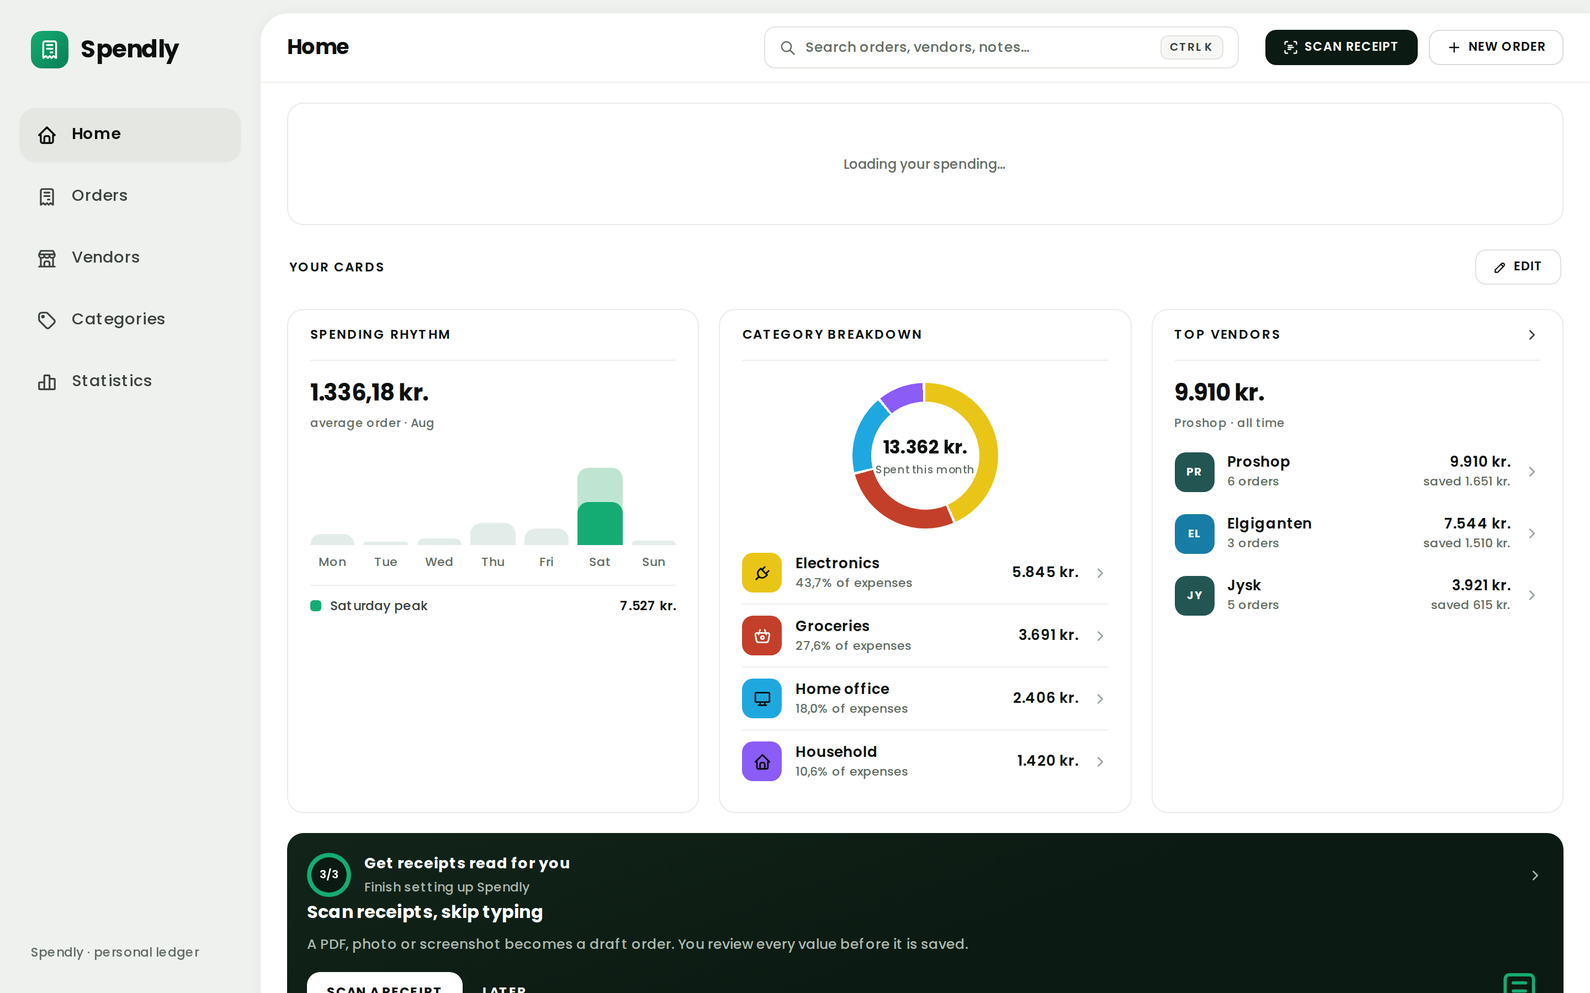
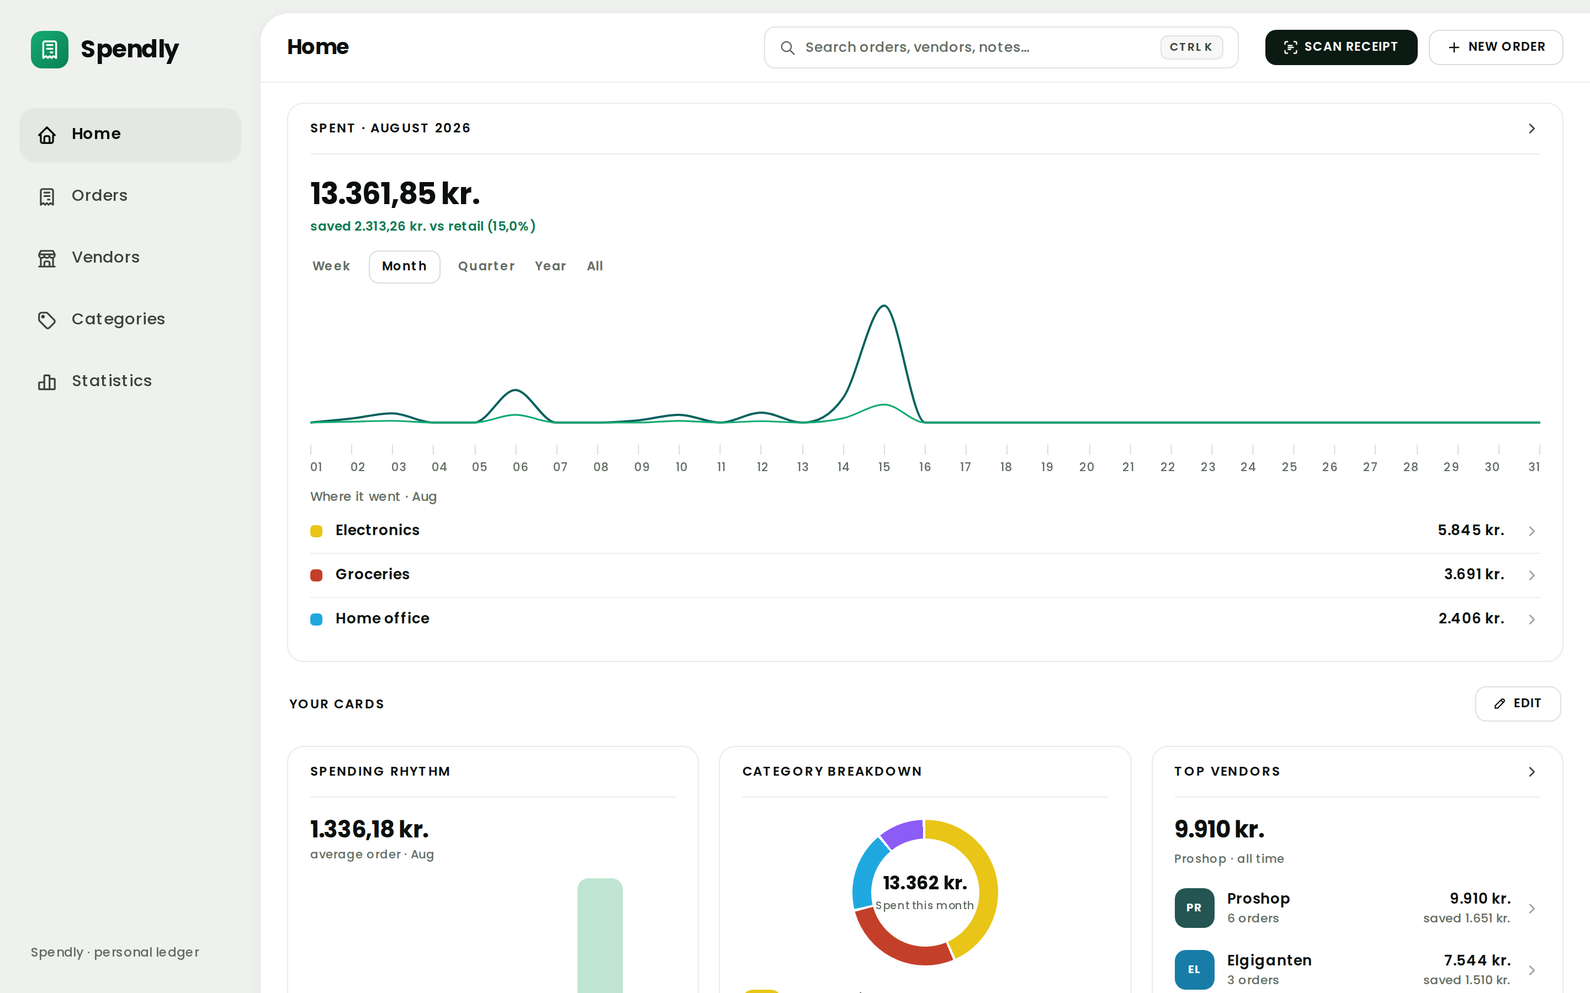
Fill Home's cards to the row they share, and fix the shot harness
Spending rhythm, Category breakdown and Top vendors share a grid row, so all
three are as tall as the tallest -- and two of them held about 300px and 403px
of nothing. Top vendors was cut to three by a slice nothing else agreed with;
the rhythm bars could not fill at all, because the API returned pixel heights
(70px at the peak, twice, as `home` and `stats`), so the chart was as tall as a
decision taken where the data is.

Both are one number and one shape now: `homeCardRows` (10) is the row count
every list on the page reads, and the bars are a share of the busiest day drawn
as a percentage of a track that grows with the card -- the shape the month
columns already use. Measured: rhythm 403px dead -> 1px, Top vendors 3 rows ->
10 at 1px, Orders card the same. The breakdown's 129px is the account's, not
the layout's: that list is every category with spend this month, because the
ring has to add up to its own centre.

The share rewrite measured perfectly and rendered upside down -- every bar
within 0px of track x share while all seven hung from the ceiling, because
align-self:stretch on an item with a definite height resolves to flex-start.
The probe now reads each bar's bottom against its track's: 0px on 28 bars.

Harness: regen-docs waited on `.card`, and the loading state IS a card, so it
screenshotted "Loading your month..." -- 79,524 bytes against a committed
344,406. The settle loop agreed, because it compares chart paths and a page
[…]

diff --git a/react/src/api/client.js b/react/src/api/client.js
@@ -352,6 +352,23 @@ export async function getHomeHero(range, signal) {
 	return request('/api/home/hero' + qs({ range }), { signal })
 }
 
+/** How many rows a card on Home fills with, where it has rows to fill.
+
+    Home's cards share grid rows, and a grid row is as tall as its tallest card -- so a card
+    that holds three of something beside a card that holds ten is not a shorter card, it is the
+    same card with a hole under it. Category breakdown is the long one (every category with
+    spend this month, which the ring in its middle has to add up to), and the two beside it were
+    cut to three and drew about 300px of nothing each.
+
+    Ten, and *filled* to ten where the account has ten. Not "all", because these are summary
+    cards with the full list one click behind them, and a card that grows without limit stops
+    sharing a row with anything. Change the number here and every list on the page follows it.
+
+    Not the category ring's list: that one is every category with spend this month by rule, since
+    the arcs have to add up to the figure printed in the centre. Capping it is a defect with its
+    own entry. */
+export const homeCardRows = 10
+
 export async function getHomeContent(signal) {
 	// Fetched directly rather than through getOrdersOverview, which independently re-fetches
 	// stats/categories/home for its own callers — going through it here paid for that work
@@ -362,7 +379,7 @@ export async function getHomeContent(signal) {
 		getVendors(signal),
 		getCategories(signal),
 		getSettings(signal),
-		request('/api/orders/overview' + qs({ count: 3 }), { signal })
+		request('/api/orders/overview' + qs({ count: homeCardRows }), { signal })
 	])
 	/* "The categories are written per month" below, and the ring right above them reads
 	   "Spent this month" -- so both need this month's spend, not categories' all-time totals.
@@ -371,14 +388,15 @@ export async function getHomeContent(signal) {
 	const monthCategories = monthCategoriesFrom(categories, window.split)
 	return {
 		period: periodFromWindow(window),
-		vendors: [...vendors].sort((a, b) => b.spend - a.spend).slice(0, 3),
+		vendors: [...vendors].sort((a, b) => b.spend - a.spend).slice(0, homeCardRows),
 		categories: monthCategories,
 		// All-time, from the raw list rather than monthCategories -- that one's filtered to
 		// spend > 0 this month, and a favourite is a standing preference, not an activity
 		// filter: a category starred last week with nothing bought from it yet this month
 		// should still show up here, the same way a starred vendor with no orders yet still
 		// leads the Vendors page's own Favourites section.
-		favouriteCategories: categories.filter(c => c.favourite).sort((a, b) => b.spend - a.spend),
+		favouriteCategories: categories.filter(c => c.favourite)
+			.sort((a, b) => b.spend - a.spend).slice(0, homeCardRows),
 		onboarding,
 		showScanCard: settings.showScanCard,
 		latest

diff --git a/react/src/styles/app.css b/react/src/styles/app.css
@@ -379,7 +379,7 @@ a[data-go] { color:inherit; text-decoration:none; }
    card becomes a column so the body can take the leftover height, and the body passes it on. */
 .card:has(> .card-body-fill) { display:flex; flex-direction:column; }
 .card-body-fill { flex:1; display:flex; flex-direction:column; }
-.card-body-fill > .month-columns { flex:1; }
+.card-body-fill > .month-columns, .card-body-fill > .weekday-bars { flex:1; }
 /* The page heading inside a card and the sentence under it. Seven headings were
    unclassed <div>s carrying the full spec, which is how two of them ended up at
    17px against the other five at 19px, and the lead's bottom margin at 16px
@@ -480,9 +480,21 @@ svg.chart { width:100%; display:block; }
 .dashboard-cards-empty { margin:0; padding:26px 20px; text-align:center; font-size:12.5px; color:var(--text-muted); border:1px dashed var(--text-faint); border-radius:var(--radius-card); }
 
 /* weekday bars */
-.weekday-bars { display:flex; align-items:flex-end; gap:8px; height:112px; margin-top:14px; }
-.weekday-bars > div { flex:1; display:flex; flex-direction:column; gap:8px; align-items:center; justify-content:flex-end; height:100%; }
-.weekday-bars .chart-bar { align-self:stretch; }
+/* Grows into whatever the card gives it, with a 112px floor -- the Home card shares a grid row
+   with the category breakdown, so its height is the row's, not the chart's. The bar is a
+   percentage of its own track rather than a pixel height chosen in the API; the track is what
+   makes that percentage mean something, exactly as on .month-columns below. */
+.weekday-bars { display:flex; align-items:stretch; gap:8px; flex:1; min-height:112px; margin-top:14px; }
+.weekday-bars > div { flex:1; display:flex; flex-direction:column; gap:8px; align-items:center; justify-content:flex-end; }
+.weekday-bars .weekday-bars-track { display:flex; align-items:flex-end; width:100%; flex:1; }
+/* No align-self here. It used to read `stretch`, which is what spanned the bar across the
+   column back when the bar was a direct child of that column and the cross axis was
+   horizontal. Inside the track the cross axis is vertical, and `stretch` on an item with a
+   definite height resolves to flex-start -- so all seven bars hung from the top of the track
+   instead of standing on its floor. Every bar was still exactly `track x share` tall, which is
+   why the height check passed: it measured the size and said nothing about where it sat. The
+   width comes from the .chart-bar rule below, which already sets 100%. */
+.weekday-bars .chart-bar { flex:none; }
 /* The track is the control's furniture and the height is the data, so a weekday the window
    spent nothing on still draws one: these bars are the chosen window's now, and a Monday-to-
    Friday window really does hold 0 on Saturday. Without the floor that day renders as a bare

diff --git a/api/src/lib/stats.js b/api/src/lib/stats.js
@@ -136,13 +136,18 @@ function rhythmOver(userId, from, to) {
 	const total = spend.reduce((s, v) => s + v, 0)
 	const most = Math.max(...spend, 0)
 	return {
-		/* `home` and `stats` carry the same real bar heights — the two contexts that read this
-		   (the Home dashboard card and the Statistics page) draw at different chart heights but
-		   there is one real weekday-spend shape behind both, not two authored ones. */
-		weekdays: WEEKDAY_TICKS.map((day, i) => {
-			const height = most ? Math.round((spend[i] / most) * 70) : 0
-			return { day, stats: height, home: height, peak: most > 0 && spend[i] === most }
-		}),
+		/* A share of the busiest day, not a height. It used to answer pixels -- 70 of them at
+		   the peak, under two names (`home` and `stats`) carrying the identical number -- which
+		   is a presentation decision taken where the data is, and it pinned both charts to
+		   whatever box 70px happened to suit. The Home card sits in a grid row as tall as the
+		   category breakdown beside it and had 403px of nothing under a 112px chart, because a
+		   pixel height cannot grow into a row it knows nothing about. A share can: the bar is
+		   that percentage of whatever track it is given. */
+		weekdays: WEEKDAY_TICKS.map((day, i) => ({
+			day,
+			share: most ? Math.round((spend[i] / most) * 1000) / 10 : 0,
+			peak: most > 0 && spend[i] === most
+		})),
 		weekendShare: total ? Math.round(((spend[5] + spend[6]) / total) * 100) : 0,
 		busiestDay: most > 0 ? WEEKDAY_NAMES[spend.indexOf(most)] : null,
 		busiestDaySpend: most

diff --git a/react/src/components/Viz.jsx b/react/src/components/Viz.jsx
@@ -188,12 +188,21 @@ export const Meter = ({ fill, marker, ariaLabel, style }) => (
 
 /** Seven bars, one per weekday. The peak days carry a lighter track with a filled portion,
     which is how the prototype marks them; everything else is the plain track. */
-export const WeekdayBars = ({ days, field = 'home', style }) => (
+/** A bar per weekday, each a share of the busiest one, with its name underneath.
+
+    Same shape as MonthColumns below and for the same reason: the bar sits in a track, and the
+    track -- not the column, and not a number chosen in the API -- is the box the percentage
+    resolves against. It used to take a pixel height per day and a `field` naming which of two
+    identical copies of that height to read, so the chart was exactly as tall as the API had
+    decided and the card around it kept whatever was left. */
+export const WeekdayBars = ({ days, style }) => (
 	<div className="weekday-bars" style={style} aria-hidden="true">
 		{days.map(d => (
 			<div key={d.day}>
-				<div className="chart-bar" style={{ height: d[field] + 'px', background: d.peak ? '#BFE5D2' : undefined }}>
-					<div className="chart-bar-fill" style={{ '--f': d.peak ? '55%' : '0%' }} />
+				<div className="weekday-bars-track">
+					<div className="chart-bar" style={{ height: d.share + '%', background: d.peak ? '#BFE5D2' : undefined }}>
+						<div className="chart-bar-fill" style={{ '--f': d.peak ? '55%' : '0%' }} />
+					</div>
 				</div>
 				<span>{d.day}</span>
 			</div>

diff --git a/react/src/pages/Home.jsx b/react/src/pages/Home.jsx
@@ -162,10 +162,13 @@ function dashboardCard(key, data) {
 				<>
 					<CardHeader title="Spending rhythm" />
 					<CardDivider />
-					<CardBody>
+					{/* Fills the card rather than sitting 112px tall in it: this shares a grid row
+					    with the category breakdown, which is as long as the month has categories.
+					    README: Charts. */}
+					<CardBody variant="card-body-fill">
 						<div className="figure-card tabular-figures">{kr(period.averageOrder)}</div>
 						<span className="card-caption">average order · {period.shortLabel}</span>
-						<WeekdayBars days={period.weekdays} field="home" />
+						<WeekdayBars days={period.weekdays} />
 						<div className="chart-legend-inline">
 							<span className="chart-swatch" />
 							<span style={{ whiteSpace: 'nowrap' }}>{period.busiestDay} peak</span>

diff --git a/react/src/pages/Stats.jsx b/react/src/pages/Stats.jsx
@@ -206,7 +206,7 @@ export default function Stats() {
 									<div className="figure-large tabular-figures">{view.rhythm.weekendShare}%{' '}
 										<span style={{ fontWeight: 500, fontSize: 14, color: 'var(--text-muted)' }}>
 											of spend lands on weekends</span></div>
-									<WeekdayBars days={view.rhythm.weekdays} field="stats" style={{ height: 86 }} />
+									<WeekdayBars days={view.rhythm.weekdays} style={{ minHeight: 86 }} />
 								</CardBody>
 							</Card>
 						</div>

diff --git a/CLAUDE.md b/CLAUDE.md
@@ -109,9 +109,20 @@ box, not about any change.
 - **That build is a valid pixel baseline.** 141.0.7390.37 under the 1.56.1 bundle is the pair the
   screenshot section names as rendering `docs/` at 0 of 5,184,000 from the app, so this container is
   the good case rather than the text-rasterisation case -- still run the unchanged app against
-  `docs/` once to confirm it before trusting a diff. Confirmed on 2026-07-31, rendering the app: 0 of
-  5,184,000 on `home.png` and `all-orders.png`, 0 of 1,035,840 on `phone.png`, each reproduced twice
-  in a row. **`all-orders.png` holds three pieces of state at once**, and each one has to be driven:
+  `docs/` once to confirm it before trusting a diff. Two runs of the same source on the same day
+  agree at 0 of 5,184,000 and 0 of 1,035,840, reproduced twice in a row, so the *engine* is not the
+  variable here.
+- **Two of the three shots are dated, and the date is the data.** `regen-docs.mjs` shifts every seed
+  order so the newest lands *today*, and Home's hero names the current month -- so a shot rendered on
+  one day and re-rendered on another differs by the whole dataset, with no change to the app at all.
+  Re-rendering on 2026-08-15 a file last written on 2026-07-31 came back **849,085 of 5,184,000** on
+  `home.png` and **51,738 of 1,035,840** on `phone.png`, spread over every band that carries a
+  figure. That is a number to attribute before believing it: `git stash`, restart both servers,
+  render, and compare. The pre-change source produced *the same two numbers to the pixel*, which is
+  what said the change under test contributed 0. `all-orders.png` is unaffected -- it is a filtered
+  list of a fixed window, so it comes back byte-identical -- and that contrast is the quickest tell
+  that a diff is the calendar rather than the code.
+- **`all-orders.png` holds three pieces of state at once**, and each one has to be driven:
   the FILTERS panel is open, which is no longer the state the page loads in; the list is filtered to
   `?vendor=bilka&status=Delivered&from=2026-07-01&to=2026-07-31`, 3 matching; and the global finder
   (`input[aria-label="Search everything"]`) has `bil` typed into it, open. Render it closed or drop
@@ -259,6 +270,27 @@ whose job was skipping expensive work nothing renders, and a null list draws the
 genuinely empty list draws. Any probe reading a card that can legitimately be empty has to assert the
 *query* was empty, not just the card: read the endpoint the page called, and compare its payload to
 what was drawn. A rendered "none" is not evidence of none.
+
+**The loading state is a card, so `waitForSelector('.card')` waits for nothing.** The screenshot
+harness waited on `.card`, and Home's Async placeholder *is* a card -- so it proceeded while the
+page still read "Loading your month...". The settle loop behind it agreed: it compares the `d` of
+every `svg.chart path`, and a page that has drawn no charts has none, so `''` equalled `''` three
+times in 180ms and it returned. Two checks that cannot fail compose into a harness that screenshots
+a spinner and reports a byte count, which is what it did -- 79,524 bytes against a committed 344,406,
+a number that reads as "the page got simpler". Every pixel comparison taken against those files was
+then a spinner against a page, including the one reported as evidence that a change moved nothing.
+Wait on the content the page exists to show, assert the loading text is gone, and make any settle
+loop require the thing it claims to be settling; a screenshot step should refuse to write a file
+while the word "Loading" is on screen. And when a rendered artefact changes size by 4x, open it --
+the byte count was in front of me twice before the image was.
+
+**A size check is not a position check.** The weekday bars were re-cut as a percentage of a track
+and the probe read every bar back at `track x share` with a worst error of 0px, on a chart hanging
+from the ceiling: `align-self:stretch` on an item with a definite height resolves to flex-start, so
+all seven were the right size in the wrong place and the measurement had no opinion about where a
+box sits. Any check on a box's dimension needs its edge too -- assert the bar's bottom against the
+track's bottom, the row's left against its container's left -- and look at the render, because
+"correct height, wrong baseline" is invisible to arithmetic and obvious to an eye.
 
 **Deleting a component is a claim about how many elements used it, and the count is cheap.**
 Removing two cards took their component and their CSS with them, and three of those rules were
@@ -520,6 +552,15 @@ renders. A stale screenshot is a wrong claim about the product, and it is the on
 believes without checking — so a change that moves one of these three is regenerated in the same
 pass that verifies it, and never before: a shot regenerated mid-work is a shot that has to be
 regenerated again when the next edit lands.
+
+**"Moves one of these three" is not the only reason to re-render two of them.** `home.png` and
+`phone.png` are dated -- the environment bullet above has the numbers -- so they go out of date on
+their own, without anybody touching the app, and a re-render on a later day is a legitimate change to
+those files that no diff of the source explains. That is a change to make deliberately and to say so
+in the report, never one to let arrive quietly inside a pass that was about something else: the way
+to keep both honest is to render the *unchanged* source first, attribute that number to the calendar,
+and only then re-render. `all-orders.png` is dateless and should come back byte-identical; if it
+does not, the diff is the code.
 
 **`docs/` is not a baseline unless your machine reproduces it.** The tab conversion was accepted on 0
 differing pixels against these shots; the same comparison run in a container came back 83,630 of

diff --git a/docs/defects.md b/docs/defects.md
@@ -1087,3 +1087,56 @@ which would have been a regression on a page this change never touched: the scan
 so (`.card-question` → **1**, not 0), and the panel measures 18px padding, a 10.5px/700 uppercase
 label and a 15px/700 title, unchanged. `.card-headline-question` really was orphaned — **0 matches,
 0 source references** — and is gone.
+
+---
+
+## Home — three cards in a row, and two of them mostly empty
+
+*Spending rhythm*, *Category breakdown* and *Top vendors* share one grid row, so all three are as
+tall as the tallest. Measured at 1440x900 with twelve vendors and six categories carrying spend:
+
+| card | rows | height | empty below its content |
+|---|---|---|---|
+| Spending rhythm | — | 698px | **403px** |
+| Category breakdown | 6 | 698px | 129px |
+| Top vendors | 3 | 698px | **~300px** |
+
+Two different faults with the same look. *Top vendors* was cut to three by
+`.slice(0, 3)` — a number written once, in the client, with nothing else in the app agreeing to it;
+the account had twelve and the card had room for ten. *Spending rhythm* could not be filled at all,
+because its bars were **pixel heights computed in the API**: `rhythmOver` scaled the busiest weekday
+to 70px and returned that number twice, once as `home` and once as `stats`, so the chart was exactly
+as tall as a decision taken where the data is and the card kept whatever was left.
+
+Both are now one number and one shape. The row count is a single exported constant the page's lists
+all read, set to 10; the bars are a **share of the busiest day** rendered as a percentage of a track
+that grows with the card, which is the shape the month columns already use for the same reason.
+After, same account, same viewport:
+
+| card | rows | height | empty below its content |
+|---|---|---|---|
+| Spending rhythm | — | 698px | **1px** |
+| Category breakdown | 6 | 698px | 129px |
+| Top vendors | 10 | 698px | **1px** |
+
+The breakdown's remaining 129px is the account's, not the layout's: that list is every category with
+spend this month by rule, since the ring above it has to add up to the figure printed in its centre,
+and this month has six. The Orders card on the same page went 3 rows to 10 from the same constant
+and also closes at 1px.
+
+### The bars were the right size and in the wrong place
+
+The share-of-track rewrite measured perfectly and rendered upside down. Every bar came back within
+**0px** of `track x share` — 495.5px track on Home, 62.1px on Statistics, at 1440 and under
+`devices['iPhone 13']` — while all seven hung from the top of the track instead of standing on its
+floor. `align-self: stretch` was left over from when the bar was a direct child of its column, where
+the cross axis is horizontal and stretch is what spanned it; inside the track the cross axis is
+vertical, and stretch on an item with a definite height resolves to flex-start. A height check has
+no opinion about where a box sits, so it passed. The probe now reads each bar's bottom edge against
+its track's bottom: **0px on all 28 bars**, across both pages and both viewports.
+
+The only non-zero figure left is deliberate: a weekday with no spend draws at `min-height: 3px`
+rather than vanishing, so a 0% bar measures 3px against a computed 0.
+
+Measured in Blink 141.0.7390.37 under Playwright 1.56.1, driving the app at `localhost:5173`,
+0 page errors. **Not run:** Gecko and WebKit are not installed in this container.

diff --git a/README.md b/README.md
@@ -414,6 +414,7 @@ Small quantitative graphics, each with one job:
 - **Progress bar** (6px): completion of a process, no marker.
 - **Progress ring**: the same, radial, where the number it wraps is the subject.
 - **Month columns**: a column per window, the current one `.is-on`. The bar sits in a track of its own and its height is a percentage of that track — never of a box that also holds the label, or every tall bar shrinks to the same height and the chart stops comparing anything ([the numbers](docs/defects.md#charts--three-bars-of-100-96-and-85-drew-the-same-height)). The track is 150px at its smallest and grows to fill the card, since this chart shares a row with one that is as long as the account has categories.
+- **Weekday bars**: seven bars, one per day, each a share of the busiest. Same track, same rule, same reason — and the share is what the bar is given, never a height in pixels: a figure decided away from the card can only be right for one card. It was, for two, and the taller of them kept 403px of nothing underneath.
 
 **None of these carry text.** The figure they illustrate stands beside them as real text in tabular figures — a number inside a graphic is a number a screen reader loses and a walk cannot compare.
 
@@ -476,6 +477,8 @@ The landing screen, top to bottom: the stretch of time being viewed, the hero ch
 **A card that names a window links to that window.** The hero's header opens Statistics on the window the card is showing, under the name the chip carries, so arriving there is a continuation rather than a fresh question — and the total printed on the two pages is the same number, because it is derived from the same days.
 
 **The dashboard is personal.** Which cards appear, and in what order, is the user's choice: an edit mode exposes a grip per card, cards drag (or move by arrow key, Home and End for the ends), and the arrangement persists. Everyone sees the same Orders page; Home shows what this user chose to see.
+
+**Cards share a row, so they are filled to the same depth.** A grid row is as tall as its tallest card, and a card that holds three of something beside a card that holds ten is not a shorter card — it is the same card with a hole under it. Every list on this page holds up to the same number of rows, from one number the page states once, and is *filled* to it wherever the account has that many; every chart on it grows into whatever the row gives it rather than standing at a height chosen elsewhere. Ten is the number today: enough to fill a row beside the category breakdown, few enough that these stay summaries with the full list one click behind them. The one list exempt is the category ring's, which is every category with spend this month because the arcs have to add up to the figure in the middle ([the numbers](docs/defects.md#home--three-cards-in-a-row-and-two-of-them-mostly-empty)).
 
 **A drag shows what is moving and where it lands.** The lifted card leaves the flow at the size it had, follows the pointer on a shadow, and a dashed slot of exactly that size travels through the grid. A dimmed card shuffled in place is a drag where the most important thing on screen is the faintest.
 
